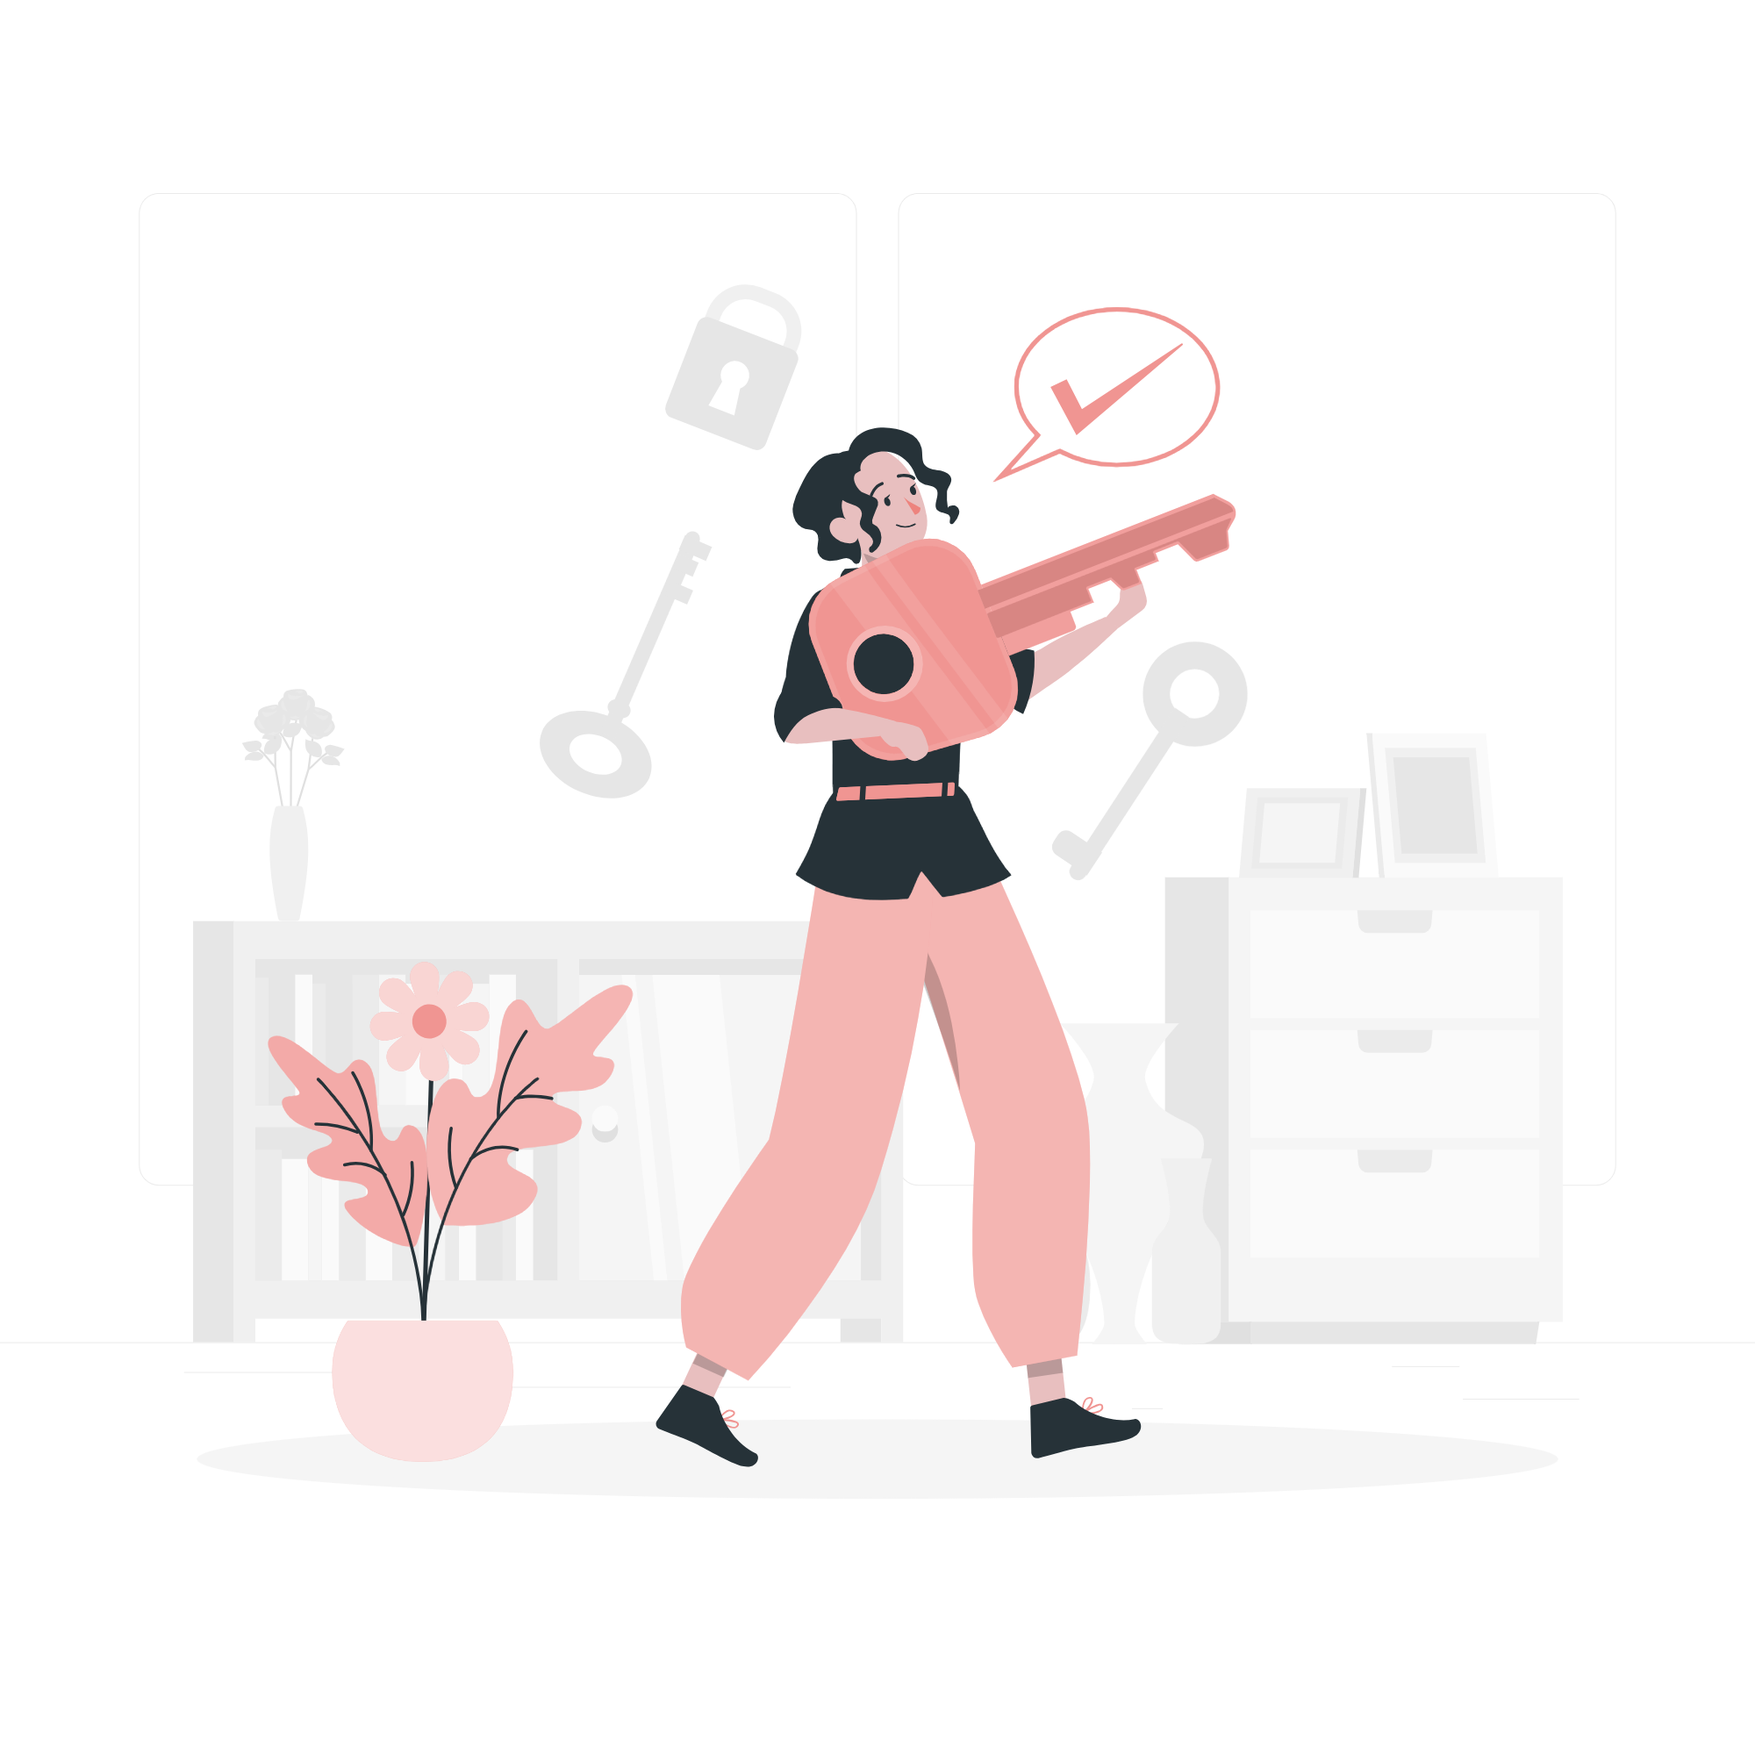
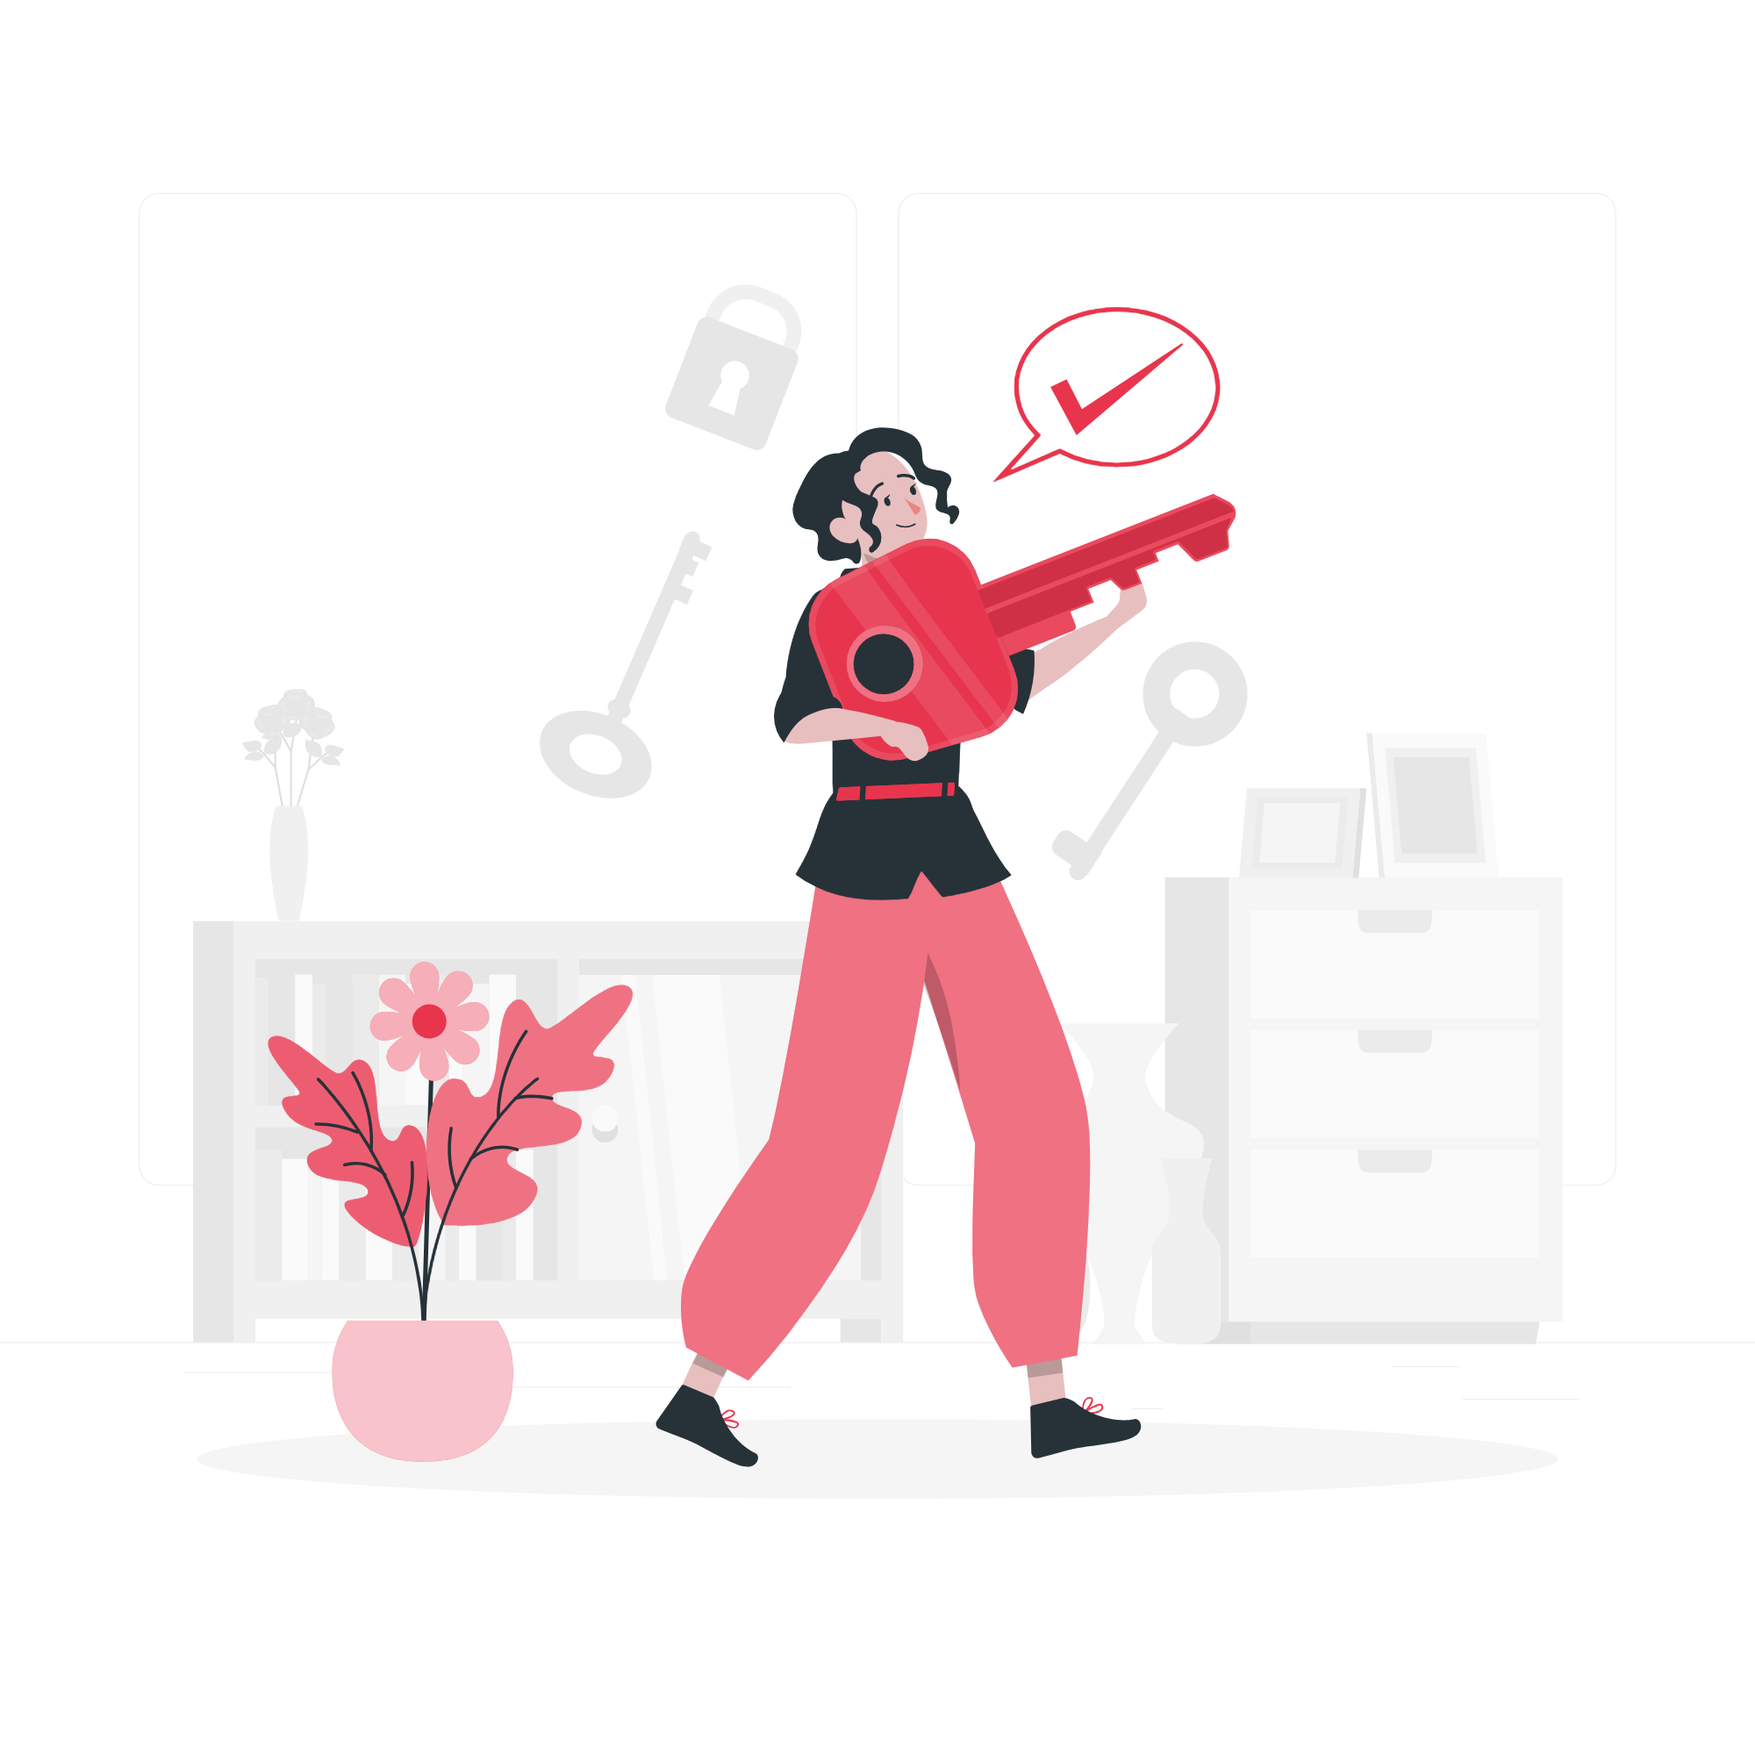
Authentication light and dark theme corrected

diff --git a/lib/utils/theme/theme.dart b/lib/utils/theme/theme.dart
@@ -1,4 +1,5 @@
 import 'package:flutter/material.dart';
+import 'package:solution_challenge/utils/constants/colors.dart';
 import 'package:solution_challenge/utils/theme/custom_themes/text_theme.dart';
 import 'package:solution_challenge/utils/theme/custom_themes/appbar_theme.dart';
 import 'package:solution_challenge/utils/theme/custom_themes/bottom_sheet_theme.dart';
@@ -20,10 +21,10 @@ class TAppTheme {
     textTheme: TTextTheme.lightTextTheme,
     chipTheme: TChipTheme.lightChipTheme,
     appBarTheme: PAppBarTheme.lightAppBarTheme,
-    checkboxTheme: TCheckboxTheme.lightCheckboxTheme,
+    checkboxTheme: PCheckboxTheme.lightCheckboxTheme,
     bottomSheetTheme: TBottomSheetTheme.lightBottomSheetTheme,
-    elevatedButtonTheme: TElevatedButtonTheme.lightElevatedButtonTheme,
-    outlinedButtonTheme: TOutlinedButtonTheme.lightOutlinedButtonTheme,
+    elevatedButtonTheme: PElevatedButtonTheme.lightElevatedButtonTheme,
+    outlinedButtonTheme: POutlinedButtonTheme.lightOutlinedButtonTheme,
     inputDecorationTheme: TTextFormFieldTheme.lightInputDecorationTheme,
   );
 
@@ -32,14 +33,14 @@ class TAppTheme {
     fontFamily: 'Poppins',
     brightness: Brightness.dark,
     primaryColor: Colors.red,
-    scaffoldBackgroundColor: Colors.black,
+    scaffoldBackgroundColor: TColors.myblack,
     textTheme: TTextTheme.darkTextTheme,
     chipTheme: TChipTheme.darkChipTheme,
     appBarTheme: PAppBarTheme.darkAppBarTheme,
-    checkboxTheme: TCheckboxTheme.darkCheckboxTheme,
+    checkboxTheme: PCheckboxTheme.darkCheckboxTheme,
     bottomSheetTheme: TBottomSheetTheme.darkBottomSheetTheme,
-    elevatedButtonTheme: TElevatedButtonTheme.darkElevatedButtonTheme,
-    outlinedButtonTheme: TOutlinedButtonTheme.darkOutlinedButtonTheme,
+    elevatedButtonTheme: PElevatedButtonTheme.darkElevatedButtonTheme,
+    outlinedButtonTheme: POutlinedButtonTheme.darkOutlinedButtonTheme,
     inputDecorationTheme: TTextFormFieldTheme.darkInputDecorationTheme,
   );
 }

diff --git a/lib/utils/theme/custom_themes/elevated_button_theme.dart b/lib/utils/theme/custom_themes/elevated_button_theme.dart
@@ -1,16 +1,17 @@
 import 'package:flutter/material.dart';
+import 'package:solution_challenge/utils/constants/colors.dart';
 
-class TElevatedButtonTheme {
-  TElevatedButtonTheme._();
+class PElevatedButtonTheme {
+  PElevatedButtonTheme._();
 
   static final lightElevatedButtonTheme = ElevatedButtonThemeData(
     style: ElevatedButton.styleFrom(
       elevation: 0,
       foregroundColor: Colors.white,
-      backgroundColor: Colors.blue,
-      disabledForegroundColor: Colors.grey,
-      disabledBackgroundColor: Colors.grey,
-      side: const BorderSide(color: Colors.blue),
+      backgroundColor: TColors.rani,
+      disabledForegroundColor: TColors.greige,
+      disabledBackgroundColor: TColors.greige,
+      side: const BorderSide(color: TColors.brightpink),
       padding: const EdgeInsets.symmetric(vertical: 18),
       textStyle: const TextStyle(fontSize: 16, color: Colors.white, fontWeight: FontWeight.w600),
       shape: RoundedRectangleBorder(borderRadius: BorderRadius.circular(12)),
@@ -21,10 +22,10 @@ class TElevatedButtonTheme {
     style: ElevatedButton.styleFrom(
       elevation: 0,
       foregroundColor: Colors.white,
-      backgroundColor: Colors.blue,
-      disabledForegroundColor: Colors.grey,
-      disabledBackgroundColor: Colors.grey,
-      side: const BorderSide(color: Colors.blue),
+      backgroundColor: TColors.rani,
+      disabledForegroundColor: TColors.greige,
+      disabledBackgroundColor: TColors.greige,
+      side: const BorderSide(color: TColors.rani),
       padding: const EdgeInsets.symmetric(vertical: 18),
       textStyle: const TextStyle(fontSize: 16, color: Colors.white, fontWeight: FontWeight.w600),
       shape: RoundedRectangleBorder(borderRadius: BorderRadius.circular(12)),

diff --git a/lib/utils/theme/custom_themes/outlined_button_theme.dart b/lib/utils/theme/custom_themes/outlined_button_theme.dart
@@ -1,15 +1,16 @@
 import 'package:flutter/material.dart';
+import 'package:solution_challenge/utils/constants/colors.dart';
 
-class TOutlinedButtonTheme {
-  TOutlinedButtonTheme._();
+class POutlinedButtonTheme {
+  POutlinedButtonTheme._();
 
   static final lightOutlinedButtonTheme = OutlinedButtonThemeData(
     style: OutlinedButton.styleFrom(
       elevation: 0,
       foregroundColor: Colors.black,
-      side: const BorderSide(color: Colors.blue),
+      side: const BorderSide(color: TColors.rani),
       padding: const EdgeInsets.symmetric(vertical: 16, horizontal: 20),
-      textStyle: const TextStyle(fontSize: 16, color: Colors.black, fontWeight: FontWeight.w600),
+      textStyle: const TextStyle(fontSize: 16, color: TColors.burgandy, fontWeight: FontWeight.w600),
       shape: RoundedRectangleBorder(borderRadius: BorderRadius.circular(14)),
     ),
   );
@@ -17,7 +18,7 @@ class TOutlinedButtonTheme {
   static final darkOutlinedButtonTheme = OutlinedButtonThemeData(
     style: OutlinedButton.styleFrom(
       foregroundColor: Colors.white,
-      side: const BorderSide(color: Colors.blueAccent),
+      side: const BorderSide(color: TColors.rani),
       padding: const EdgeInsets.symmetric(vertical: 16, horizontal: 20),
       textStyle: const TextStyle(fontSize: 16, color: Colors.white, fontWeight: FontWeight.w600),
       shape: RoundedRectangleBorder(borderRadius: BorderRadius.circular(14)),

diff --git a/lib/features/authentication/screens/onboarding/widgets/onboarding_dot_navigation.dart b/lib/features/authentication/screens/onboarding/widgets/onboarding_dot_navigation.dart
@@ -4,7 +4,6 @@ import 'package:solution_challenge/features/authentication/controllers.onboardin
 import 'package:solution_challenge/utils/constants/colors.dart';
 import 'package:solution_challenge/utils/constants/sizes.dart';
 import 'package:solution_challenge/utils/device/device_utility.dart';
-import 'package:solution_challenge/utils/helpers/helper_functions.dart';
 
 class OnBoardingDotNavigation extends StatelessWidget {
   const OnBoardingDotNavigation({
@@ -14,7 +13,6 @@ class OnBoardingDotNavigation extends StatelessWidget {
   @override
   Widget build(BuildContext context) {
     final controller = OnBoardingController.instance;
-    final dark = THelperFunctions.isDarkMode(context);
 
     return Positioned(
         bottom: TDeviceUtils.getBottomNavigationBarHeight() + 25,
@@ -23,8 +21,8 @@ class OnBoardingDotNavigation extends StatelessWidget {
           controller: controller.pageController,
           onDotClicked: controller.dotNavigationClick,
           count: 3,
-          effect: ExpandingDotsEffect(
-              activeDotColor: dark ? TColors.light : TColors.dark, dotHeight: 6),
+          effect: const ExpandingDotsEffect(
+              activeDotColor: TColors.rani, dotHeight: 6),
         )
     );
   }

diff --git a/lib/features/authentication/screens/onboarding/widgets/onboarding_next_button.dart b/lib/features/authentication/screens/onboarding/widgets/onboarding_next_button.dart
@@ -4,7 +4,6 @@ import 'package:solution_challenge/features/authentication/controllers.onboardin
 import 'package:solution_challenge/utils/constants/colors.dart';
 import 'package:solution_challenge/utils/constants/sizes.dart';
 import 'package:solution_challenge/utils/device/device_utility.dart';
-import 'package:solution_challenge/utils/helpers/helper_functions.dart';
 
 class OnBoardingNextButton extends StatelessWidget {
   const OnBoardingNextButton({
@@ -13,14 +12,13 @@ class OnBoardingNextButton extends StatelessWidget {
 
   @override
   Widget build(BuildContext context) {
-    final dark = THelperFunctions.isDarkMode(context);
 
     return Positioned(
       right: TSizes.defaultSpace,
       bottom: TDeviceUtils.getBottomNavigationBarHeight(),
       child: ElevatedButton(
         onPressed: () => OnBoardingController.instance.nextPage(),
-        style: ElevatedButton.styleFrom(shape: const CircleBorder(), backgroundColor: dark ? TColors.light : TColors.dark),
+        style: ElevatedButton.styleFrom(shape: const CircleBorder(), backgroundColor: TColors.rani, side: const BorderSide(color: TColors.rani)),
         child: const Icon(Iconsax.arrow_right_3),
       ),
     );

diff --git a/lib/common/widgets/login_signup/form_divider.dart b/lib/common/widgets/login_signup/form_divider.dart
@@ -1,6 +1,5 @@
 import 'package:flutter/material.dart';
 import 'package:solution_challenge/utils/constants/colors.dart';
-import 'package:solution_challenge/utils/helpers/helper_functions.dart';
 
 class TFormDivider extends StatelessWidget {
   const TFormDivider({
@@ -11,13 +10,12 @@ class TFormDivider extends StatelessWidget {
 
   @override
   Widget build(BuildContext context) {
-    final dark = THelperFunctions.isDarkMode(context);
     return Row(
       mainAxisAlignment: MainAxisAlignment.center,
       children: [
-        Flexible(
+        const Flexible(
           child: Divider(
-            color: dark ? TColors.primary : TColors.accent,
+            color: TColors.brightpink,
             thickness: 0.5,
             indent: 60,
             endIndent: 5,
@@ -27,9 +25,9 @@ class TFormDivider extends StatelessWidget {
           dividerText,
           style: Theme.of(context).textTheme.labelMedium,
         ),
-        Flexible(
+        const Flexible(
           child: Divider(
-            color: dark ? TColors.primary : TColors.accent,
+            color: TColors.brightpink,
             thickness: 0.5,
             indent: 5,
             endIndent: 60,

diff --git a/lib/utils/constants/image_strings.dart b/lib/utils/constants/image_strings.dart
@@ -1,17 +1,17 @@
 class TImages {
 
   // App Logos
-  static const String lightAppLogo = "assets/logos/period.png";
-  static const String darkAppLogo = "assets/logos/period.png";
+  static const String lightAppLogo = "assets/logos/period_logo.png";
+  static const String darkAppLogo = "assets/logos/period_logo_dark.png";
 
   // social logos
   static const String google = "assets/logos/google.png";
   static const String facebook = "assets/logos/facebook.png";
 
   // Onboarding images
-  static const String onBoardingImage1 = "assets/images/onboarding_images/screen1.jpg";
-  static const String onBoardingImage2 = "assets/images/onboarding_images/screen2.jpg";
-  static const String onBoardingImage3 = "assets/images/onboarding_images/screen3.jpg";
+  static const String onBoardingImage1 = "assets/images/onboarding_images/screen1.png";
+  static const String onBoardingImage2 = "assets/images/onboarding_images/screen2.png";
+  static const String onBoardingImage3 = "assets/images/onboarding_images/screen3.png";
 
   // Login_signup images
   static const String verifyEmailImage = "assets/images/login_signup/verifyemail.png";

diff --git a/lib/utils/theme/custom_themes/checkbox_theme.dart b/lib/utils/theme/custom_themes/checkbox_theme.dart
@@ -1,7 +1,8 @@
 import 'package:flutter/material.dart';
+import 'package:solution_challenge/utils/constants/colors.dart';
 
-class TCheckboxTheme {
-  TCheckboxTheme._();
+class PCheckboxTheme {
+  PCheckboxTheme._();
 
   static CheckboxThemeData lightCheckboxTheme = CheckboxThemeData(
     shape: RoundedRectangleBorder(borderRadius: BorderRadius.circular(4)),
@@ -15,7 +16,7 @@ class TCheckboxTheme {
     }),
     fillColor: MaterialStateProperty.resolveWith((states) {
       if (states.contains(MaterialState.selected)) {
-        return Colors.blue;
+        return TColors.rani;
       }
       else {
         return Colors.transparent;
@@ -35,7 +36,7 @@ class TCheckboxTheme {
       }),
       fillColor: MaterialStateProperty.resolveWith((states) {
         if (states.contains(MaterialState.selected)) {
-          return Colors.blue;
+          return TColors.rani;
         }
         else {
           return Colors.transparent;

diff --git a/lib/features/authentication/screens/signup/verify_email.dart b/lib/features/authentication/screens/signup/verify_email.dart
@@ -3,6 +3,7 @@ import 'package:flutter/material.dart';
 import 'package:get/get.dart';
 import 'package:solution_challenge/common/widgets/success_screen/success_screen.dart';
 import 'package:solution_challenge/features/authentication/screens/login/login.dart';
+import 'package:solution_challenge/utils/constants/colors.dart';
 import 'package:solution_challenge/utils/constants/image_strings.dart';
 import 'package:solution_challenge/utils/constants/sizes.dart';
 import 'package:solution_challenge/utils/helpers/helper_functions.dart';
@@ -83,6 +84,9 @@ class VerifyEmailScreen extends StatelessWidget {
                 width: double.infinity,
                 child: TextButton(
                   onPressed: () {},
+                  style: TextButton.styleFrom(
+                    foregroundColor: TColors.rani,
+                  ),
                   child: const Text("Resend Email"),
                 ),
               ),

diff --git a/lib/features/authentication/screens/password_configurations/reset_password.dart b/lib/features/authentication/screens/password_configurations/reset_password.dart
@@ -1,6 +1,7 @@
 import 'package:flutter/cupertino.dart';
 import 'package:flutter/material.dart';
 import 'package:get/get.dart';
+import 'package:solution_challenge/utils/constants/colors.dart';
 import 'package:solution_challenge/utils/constants/image_strings.dart';
 import 'package:solution_challenge/utils/constants/sizes.dart';
 import 'package:solution_challenge/utils/helpers/helper_functions.dart';
@@ -64,7 +65,11 @@ class ResetPassword extends StatelessWidget {
               SizedBox(
                 width: double.infinity,
                 child: TextButton(
-                    onPressed: (){}, child: const Text("Resend Email")),
+                    onPressed: (){},
+                    style: TextButton.styleFrom(
+                      foregroundColor: TColors.rani,
+                    ),
+                    child: const Text("Resend Email")),
               ),
             ],
           ),

diff --git a/lib/features/authentication/screens/login/widgets/login_form.dart b/lib/features/authentication/screens/login/widgets/login_form.dart
@@ -4,6 +4,7 @@ import 'package:iconsax/iconsax.dart';
 import 'package:solution_challenge/features/authentication/screens/password_configurations/forgot_password.dart';
 import 'package:solution_challenge/features/authentication/screens/signup/signup.dart';
 import 'package:solution_challenge/navigation_menu.dart';
+import 'package:solution_challenge/utils/constants/colors.dart';
 import 'package:solution_challenge/utils/constants/sizes.dart';
 
 class TLoginForm extends StatelessWidget {
@@ -57,6 +58,9 @@ class TLoginForm extends StatelessWidget {
                 // forgot password
                 TextButton(
                   onPressed: () => Get.to(() => const ForgotPassword()),
+                  style: TextButton.styleFrom(
+                    foregroundColor: TColors.rani,
+                  ),
                   child: const Text("Forgot Password?"),
                 ),
               ],

diff --git a/lib/common/widgets/login_signup/social_buttons.dart b/lib/common/widgets/login_signup/social_buttons.dart
@@ -15,7 +15,7 @@ class TSocialButtons extends StatelessWidget {
       children: [
         Container(
           decoration: BoxDecoration(
-              border: Border.all(color: TColors.secondary),
+              border: Border.all(color: TColors.brightpink),
               borderRadius: BorderRadius.circular(100)),
           child: IconButton(
             onPressed: () {},
@@ -31,7 +31,7 @@ class TSocialButtons extends StatelessWidget {
         ),
         Container(
           decoration: BoxDecoration(
-              border: Border.all(color: TColors.secondary),
+              border: Border.all(color: TColors.brightpink),
               borderRadius: BorderRadius.circular(100)),
           child: IconButton(
             onPressed: () {},
